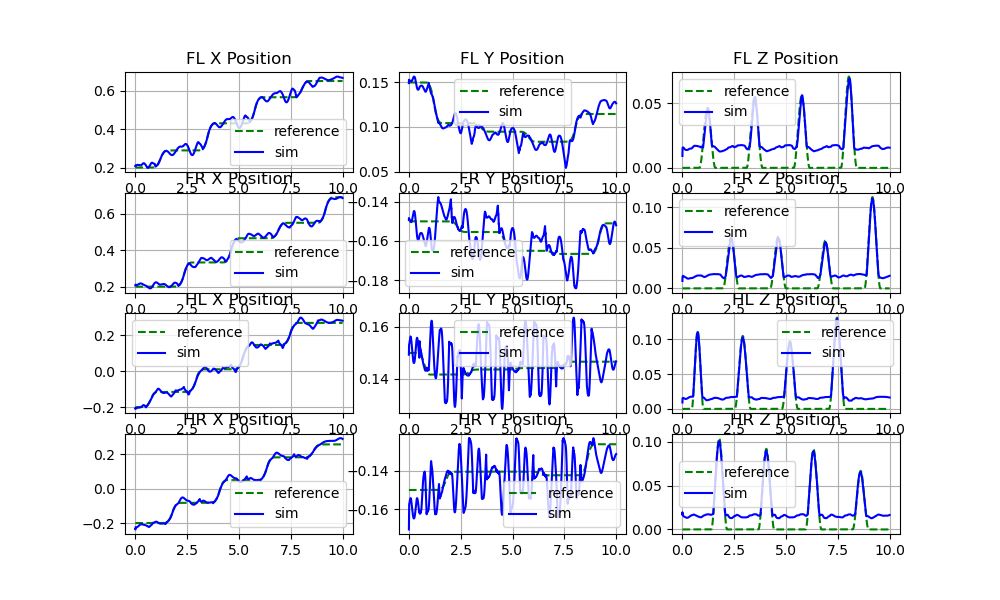
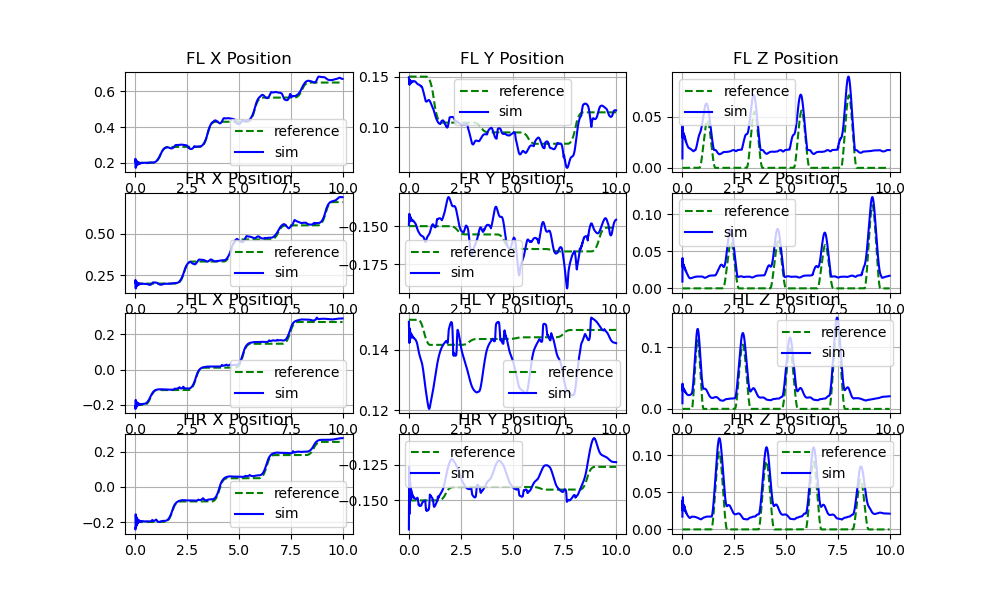
better tracking with pin

diff --git a/SOLO12_SIM_CONTROL/robot/robot.py b/SOLO12_SIM_CONTROL/robot/robot.py
@@ -129,6 +129,7 @@ class SOLO12(object):
         self._joint_toq_ref = None
         self._joint_state = None
         self._time_step = config['timestep']
+        self._update()
 
     def CoM_states(self):
         """Returns the Center of mass and orientation of robot
@@ -270,7 +271,17 @@ class SOLO12(object):
             q_cmd, q_vel, q_toq = self.inv_dynamics(cmd, index)
         return q_cmd, q_vel, q_toq
 
-    def control_multi(self, cmds, indices, mode="P"):
+    def PD(self, qa_ref, qa_dot_ref, qa, qa_dot, dt, Kp=1, Kd=1, torques_sat=5*np.ones((12, 1)), torques_ref=np.zeros(12)):
+
+        # Output torques
+        torques = Kp * (qa_ref - qa) + Kd * (qa_dot_ref - qa_dot) + torques_ref
+
+        # Saturation to limit the maximal value that torques can have
+        torques = np.maximum(np.minimum(torques, torques_sat), -torques_sat)
+
+        return torques
+
+    def control_multi(self, cmds, indices, mode="P", usePin = False):
         """Helper function to find the control outputs for each end-effector
 
         Args:
@@ -281,21 +292,49 @@ class SOLO12(object):
         Returns:
             tuple (np.array): returns a tuple of joint angle, joint velocity, joint torque commands
         """
-        if cmds.get('COM') is not None:
-            del cmds['COM']
-        q_cmd = np.zeros(12)
-        q_vel = np.zeros(12)
-        q_toq = np.zeros(12)
-        i = 0
-        for cmd, idx in zip(cmds.values(), indices):
-            q_cmd_temp, q_vel_temp, q_toq_temp = self.control(cmd, idx, mode)
-            if (q_cmd_temp is not None):
-                q_cmd[i:i+3] = q_cmd_temp[i:i+3]
-            if (q_vel_temp is not None):
-                q_vel[i:i+3] = q_vel_temp[i:i+3]
-            if (q_toq_temp is not None):
-                q_toq[i:i+3] = q_toq_temp[i:i+3]
-            i += 3
+        self._update()
+        if usePin:
+            if cmds.get('COM') is not None:
+                    del cmds['COM']
+            q_cmd = np.zeros(12)
+            q_vel = np.zeros(12)
+            q_toq = np.zeros(12)
+            q_cmd, q_vel_cmd = self.inv_kinematics_pin(cmds) 
+            ##DELETE FOR LATER
+            i = 0
+            for cmd, idx in zip(cmds.values(), indices):
+                q_cmd_temp, q_vel_temp, q_toq_temp = self.control(cmd, idx, mode)
+                if (q_cmd_temp is not None):
+                    q_cmd[i:i+3] = q_cmd_temp[i:i+3]
+                if (q_vel_temp is not None):
+                    q_vel[i:i+3] = q_vel_temp[i:i+3]
+                if (q_toq_temp is not None):
+                    q_toq[i:i+3] = q_toq_temp[i:i+3]
+                i += 3 
+            Kp = 8.
+            Kd = 0.2
+            torque_sat = 3  # torque saturation in N.m
+            torques_ref = np.zeros(12)  # feedforward torques
+            # breakpoint()
+            self._update()
+            q_mes, v_mes = self.get_PD_values()
+            q_toq = self._motor.convert_to_torque_v1(q_cmd, q_mes, v_mes, q_vel_cmd)
+        else:
+            if cmds.get('COM') is not None:
+                del cmds['COM']
+            q_cmd = np.zeros(12)
+            q_vel = np.zeros(12)
+            q_toq = np.zeros(12)
+            i = 0
+            for cmd, idx in zip(cmds.values(), indices):
+                q_cmd_temp, q_vel_temp, q_toq_temp = self.control(cmd, idx, mode)
+                if (q_cmd_temp is not None):
+                    q_cmd[i:i+3] = q_cmd_temp[i:i+3]
+                if (q_vel_temp is not None):
+                    q_vel[i:i+3] = q_vel_temp[i:i+3]
+                if (q_toq_temp is not None):
+                    q_toq[i:i+3] = q_toq_temp[i:i+3]
+                i += 3
         self._joint_ang_ref = q_cmd
         self._joint_vel_ref = q_vel
         self._joint_toq_ref = q_toq
@@ -411,13 +450,74 @@ class SOLO12(object):
         self._joint_vel_ref = joint_velocity
         return joint_position, joint_velocity
 
-    def inv_kinematics_pin(self):
+    def inv_kinematics_pin(self, cmd):
         """Template for Pinocchio based inverse kinematics
 
         Raises:
             NotImplementedError: _description_
         """
-        raise NotImplementedError
+        qa = self.q[7:]
+        qa_dot = self.qdot[6:]
+
+        q_REF = np.concatenate((cmd['FL_FOOT']['P'], cmd['FR_FOOT']['P'], cmd['HL_FOOT']['P'], cmd['HR_FOOT']['P']))
+
+        qa_ref = np.zeros(12)
+        qa_dot_ref = np.zeros(12)
+
+        K = 10.
+
+        ID_FL = self.ROBOT.model.getFrameId("FL_FOOT")
+        ID_FR = self.ROBOT.model.getFrameId("FR_FOOT")
+        ID_HL = self.ROBOT.model.getFrameId("HL_FOOT")
+        ID_HR = self.ROBOT.model.getFrameId("HR_FOOT")
+
+        pin.forwardKinematics(self.ROBOT.model, self.ROBOT.data, self._joint_ang) #Update the state of robot for Pinocchio
+        pin.updateFramePlacements(self.ROBOT.model, self.ROBOT.data)
+
+        xyz_FL = self.ROBOT.data.oMf[ID_FL].translation
+        xyz_FR = self.ROBOT.data.oMf[ID_FR].translation
+        xyz_HL = self.ROBOT.data.oMf[ID_HL].translation
+        xyz_HR = self.ROBOT.data.oMf[ID_HR].translation
+
+
+        err_FL = xyz_FL - cmd['FL_FOOT']['P']
+        err_FR = xyz_FR - cmd['FR_FOOT']['P']
+        err_HL = xyz_HL - cmd['HL_FOOT']['P']
+        err_HR = xyz_HR - cmd['HR_FOOT']['P']
+
+        o_FL = self.ROBOT.data.oMf[ID_FL].rotation
+        o_FR = self.ROBOT.data.oMf[ID_FR].rotation
+        o_HL = self.ROBOT.data.oMf[ID_HL].rotation
+        o_HR = self.ROBOT.data.oMf[ID_HR].rotation
+
+        fJ_FL3 = pin.computeFrameJacobian(self.ROBOT.model, self.ROBOT.data, self._joint_ang, ID_FL)[:3, -12:]  # Take only the translation terms
+        oJ_FL3 = o_FL @ fJ_FL3 #Transforms to rotation to global frame
+        oJ_FLxz = oJ_FL3[0:3, -12:]
+
+        fJ_FR3 = pin.computeFrameJacobian(self.ROBOT.model, self.ROBOT.data, self._joint_ang, ID_FR)[:3, -12:]
+        oJ_FR3 = o_FR @ fJ_FR3
+        oJ_FRxz = oJ_FR3[0:3, -12:]
+
+        fJ_HL3 = pin.computeFrameJacobian(self.ROBOT.model, self.ROBOT.data, self._joint_ang, ID_HL)[:3, -12:]
+        oJ_HL3 = o_HL @ fJ_HL3
+        oJ_HLxz = oJ_HL3[0:3, -12:]
+
+        fJ_HR3 = pin.computeFrameJacobian(self.ROBOT.model, self.ROBOT.data, self._joint_ang, ID_HR)[:3, -12:]
+        oJ_HR3 = o_HR @ fJ_HR3
+        oJ_HRxz = oJ_HR3[0:3, -12:]
+
+        nu = np.hstack([err_FL, err_FR, err_HL, err_HR]) # 12 x 1
+
+        J = np.vstack([oJ_FLxz, oJ_FRxz, oJ_HLxz, oJ_HRxz]) #12 x 12
+
+        q_dot_ref = - K * np.linalg.pinv(J) @ nu # 12 x 12 X 12 x 1 => 12 x 1
+
+
+        # Computing the updated configuration
+        q_ref = pin.integrate(self.ROBOT.model, self._joint_ang, q_dot_ref * self._time_step)
+
+
+        return q_ref, q_dot_ref
 
     def default_stance_control(self):
         """Robot default stance standing still
@@ -447,8 +547,8 @@ class SOLO12(object):
         base_state = p.getBasePositionAndOrientation(self.robot)
         base_vel = p.getBaseVelocity(self.robot)
         self._joint_state = p.getJointStates(self.robot, self.jointidx['idx'])
-        self._joint_ang = [state[0] for state in self._joint_state]
-        self._joint_vel = [state[1] for state in self._joint_state]
+        self._joint_ang = np.array([state[0] for state in self._joint_state])
+        self._joint_vel = np.array([state[1] for state in self._joint_state])
         self.q = np.hstack((np.array(base_state[0]), np.array(base_state[1]), self._joint_ang)) #Underactuated system representation
         self.qdot = np.hstack((np.array(base_vel[0]), np.array(base_vel[1]), self._joint_vel)) #Underactuated system representation
 

diff --git a/SOLO12_SIM_CONTROL/robot/robot_motor.py b/SOLO12_SIM_CONTROL/robot/robot_motor.py
@@ -70,6 +70,23 @@ class MotorModel(object):
 
         return np.clip(motor_torque, -1.0 * MOTOR.OBSERVED_TORQUE_LIMIT, MOTOR.OBSERVED_TORQUE_LIMIT)
 
+    def convert_to_torque_v1(self, motor_ang_cmd, motor_ang, motor_vel, motor_vel_cmd):
+        """Convert the motor position signal to torque
+
+        Args:
+            motor_cmd (_type_): _description_
+            motor_ang (_type_): _description_
+            motor_vel (_type_): _description_
+        """
+        kp = self._kp
+        kd = self._kd
+        desired_motor_angle = motor_ang_cmd
+        desired_motor_velocities = motor_vel_cmd
+        # motor_torque = -(kp * (motor_ang - desired_motor_angle)) - kd * (motor_vel - desired_motor_velocities)
+        motor_torque = kp * (desired_motor_angle - motor_ang) + kd * (desired_motor_velocities - motor_vel)
+
+        return np.clip(motor_torque, -1.0 * MOTOR.OBSERVED_TORQUE_LIMIT, MOTOR.OBSERVED_TORQUE_LIMIT)
+
     def _convert_to_torque_from_pwm(self, pwm):
         """converting a pwm signal to motor torque
 

diff --git a/SOLO12_SIM_CONTROL/simulation.py b/SOLO12_SIM_CONTROL/simulation.py
@@ -8,13 +8,14 @@ URDF = "./data/urdf/"
 
 class Simulation(object):
 
-    def __init__(self, simulation_type, timestep=None):
+    def __init__(self, simulation_type, timestep=None, setup_terrain=False):
         self._wall = "./data/urdf/wall.urdf"
         self._stairs = "./data/urdf/stair.urdf"
         self._box = "./data/urdf/box.urdf"
         self.timestep = timestep
         self.p = self.setup(sim_config=simulation_type)
-        self.setup_terrain()
+        if setup_terrain:
+            self.setup_terrain()
 
     def setup(self, sim_config = "height_terrain"):
         py_client = None

diff --git a/scripts/debug.py b/scripts/debug.py
@@ -122,7 +122,7 @@ def simulation(args={}):
                     COM = cmds['COM']
                 except StopIteration:
                     break
-                joint_ang, joint_vel, joint_toq = ROBOT.control_multi(cmds, ROBOT.EE_index['all'], mode=ROBOT.mode)
+                joint_ang, joint_vel, joint_toq = ROBOT.control_multi(cmds, ROBOT.EE_index['all'], mode=ROBOT.mode, usePin=True)
                 if sim_cfg.get('record'):
                     csv_entry = ROBOT.csv_entry
                     for i in range(5):
